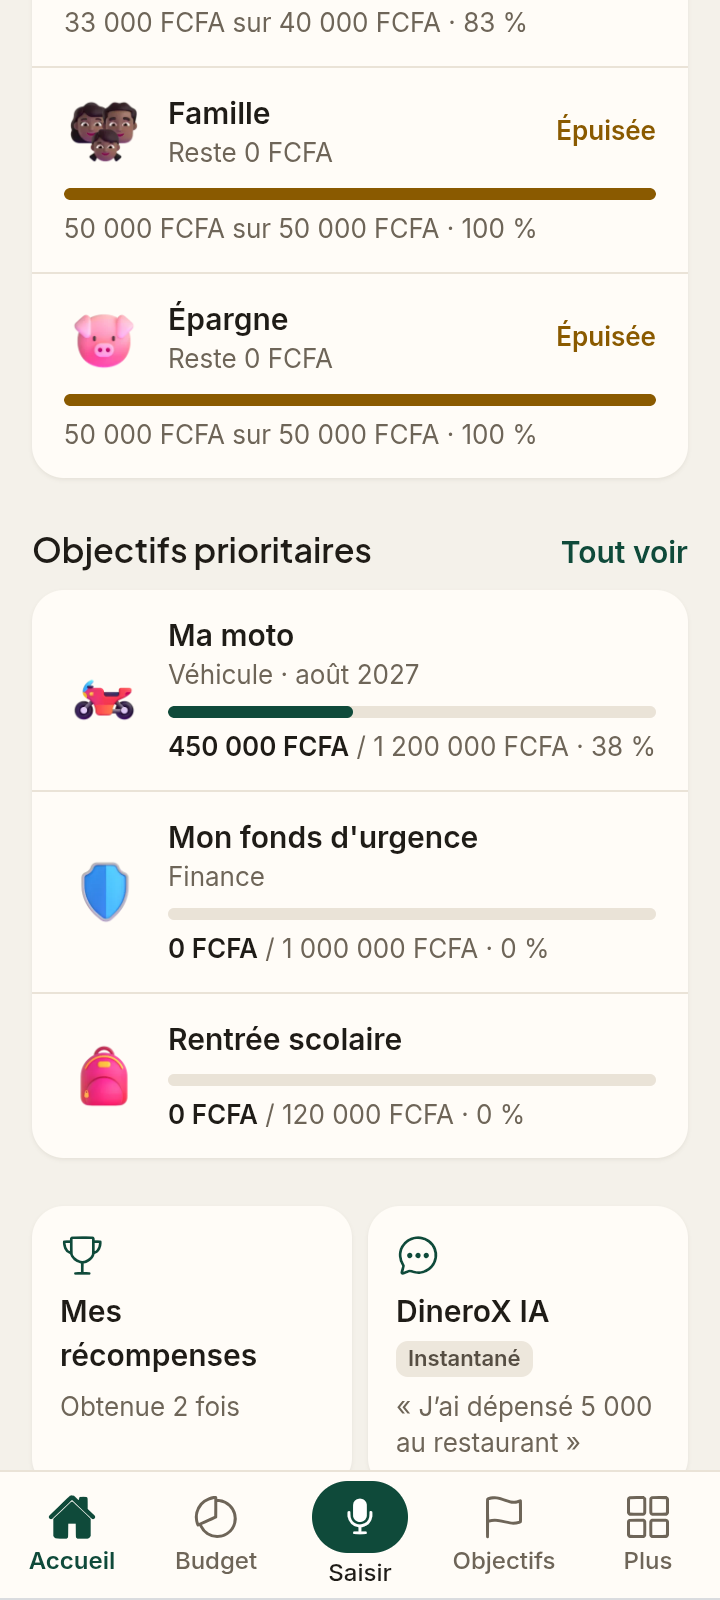
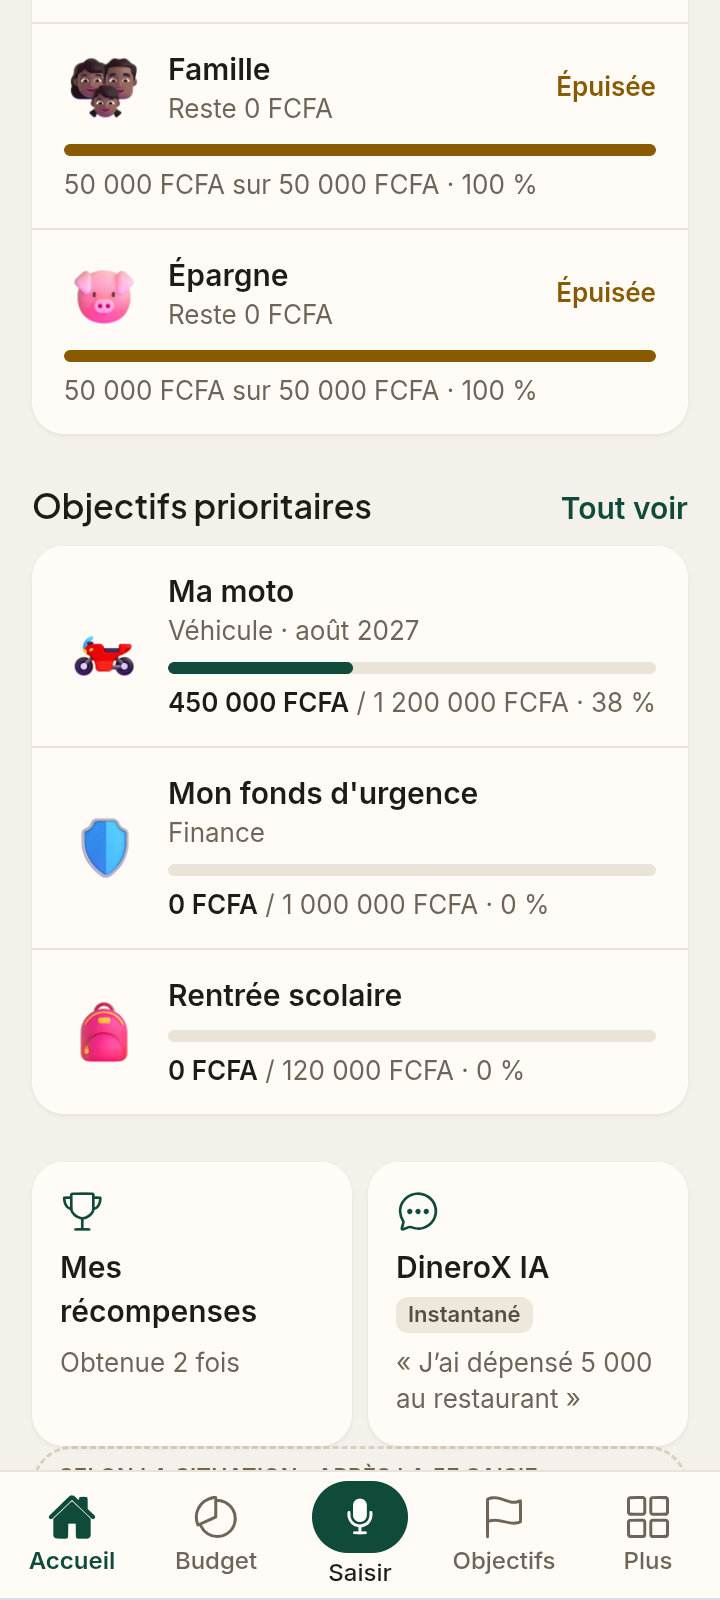
Design-pro : moto rouge, Canal+ en 📺, alertes sans emoji, cloche seule (maquettes et captures)

diff --git a/dinerox/docs/design-pro/directions/index.html b/dinerox/docs/design-pro/directions/index.html
@@ -332,8 +332,10 @@ function budget(d) {
 
 
 // ── Accueil COMPLET : contenu réel de la démonstration (export web, 2026-10-21), carte (b). ──
-// Textes : ceux de l'application, inchangés (les propositions de textes de l'étape 2 ne sont PAS
-// appliquées ici). Les cartes « selon la situation » sont entourées d'un pointillé de maquette.
+// Textes : ceux de l'application, inchangés, sauf deux changements approuvés par le fondateur
+// (2026-10-21) : plus d'emoji qui double une icône dans les alertes (🔴, ⚠…), et la cloche seule
+// dans l'en-tête (« Notifications » reste le libellé d'accessibilité). Les autres propositions de
+// l'étape 2 ne sont PAS appliquées. Les cartes « selon la situation » sont entourées d'un pointillé de maquette.
 function heroFull() {
   return `<div class="hc-b full">${PATTERN}<div class="body">
     <div class="t-caption">Reste par jour</div>
@@ -357,15 +359,15 @@ const bub3d = (slug, px = 34) => `<div class="bub" ${HALO}>${f3d(slug, px)}</div
 function homefull() {
   const tx = [
     ['Moto', 'Compte bancaire → Compte épargne · 20 octobre', '50 000 FCFA', null, 'tr'],
-    ['Canal+', 'Loisirs & divertissement · Orange Money · 18 octobre', '−10 000 FCFA', 'party-popper'],
+    ['Canal+', 'Loisirs & divertissement · Orange Money · 18 octobre', '−10 000 FCFA', 'television'],
     ['Restaurant', 'Alimentation & boissons · Cash · 15 octobre', '−51 000 FCFA', 'composees/plat_poisson_3d'],
     ['Taxi', 'Transport · Cash · 12 octobre', '−33 000 FCFA', 'taxi'],
     ['Maman', 'Famille · Orange Money · 10 octobre', '−50 000 FCFA', 'older-person-medium-dark'],
   ];
-  const insights = [['alert-circle-outline', 'var(--alert)', '🔴 Budget Maison dépassé de 40 000 FCFA.'], ['alert-circle-outline', 'var(--alert)', '🔴 Budget Alimentation & boissons dépassé de 13 000 FCFA.'], ['warning-outline', 'var(--warning)', '⚠ Budget Famille entièrement utilisé.']];
+  const insights = [['alert-circle-outline', 'var(--alert)', 'Budget Maison dépassé de 40 000 FCFA.'], ['alert-circle-outline', 'var(--alert)', 'Budget Alimentation & boissons dépassé de 13 000 FCFA.'], ['warning-outline', 'var(--warning)', 'Budget Famille entièrement utilisé.']];
   const month = [['arrow-down', 'Revenus', 'perçus ce mois', '450 000 FCFA', 'var(--positive)'], ['arrow-up', 'Dépenses', 'réglées ce mois', '326 000 FCFA'], ['wallet-outline', 'Épargne nette', 'ce mois-ci', '60 000 FCFA'], ['pie-chart-outline', 'Reste à répartir', '', '328 500 FCFA']];
   const env = [['house', 'Maison', 'Dépassé de 40 000 FCFA', 'Dépassée', 'over', '140 000 FCFA sur 100 000 FCFA · 140 %', 140], ['curry-rice', 'Alimentation & boissons', 'Dépassé de 13 000 FCFA', 'Dépassée', 'over', '93 000 FCFA sur 80 000 FCFA · 116 %', 116], ['taxi', 'Transport', 'Reste 7 000 FCFA', 'Dans les limites', 'ok', '33 000 FCFA sur 40 000 FCFA · 83 %', 83], ['composees/famille_3d_medium-dark', 'Famille', 'Reste 0 FCFA', 'Épuisée', 'full', '50 000 FCFA sur 50 000 FCFA · 100 %', 100], ['pig-face', 'Épargne', 'Reste 0 FCFA', 'Épuisée', 'full', '50 000 FCFA sur 50 000 FCFA · 100 %', 100]];
-  const goals = [['motorcycle', 'Ma moto', 'Véhicule · août 2027', '450 000 FCFA', '/ 1 200 000 FCFA · 38 %', 38], ['shield', 'Mon fonds d\'urgence', 'Finance', '0 FCFA', '/ 1 000 000 FCFA · 0 %', 0], ['backpack', 'Rentrée scolaire', '', '0 FCFA', '/ 120 000 FCFA · 0 %', 0]];
+  const goals = [['composees/moto_rouge_3d', 'Ma moto', 'Véhicule · août 2027', '450 000 FCFA', '/ 1 200 000 FCFA · 38 %', 38], ['shield', 'Mon fonds d\'urgence', 'Finance', '0 FCFA', '/ 1 000 000 FCFA · 0 %', 0], ['backpack', 'Rentrée scolaire', '', '0 FCFA', '/ 120 000 FCFA · 0 %', 0]];
   return `<div class="scroll">${topbar()}
     <div class="hello">Bonjour 👋</div>
     <div class="banner">${ic('flask-outline')}<div><div class="t-body" style="font-size:14px;line-height:20px">Mode démonstration : données fictives, séparées de vos données. Créez votre profil pour gérer votre propre argent.</div><div class="link" style="margin-top:8px">Créer mon profil</div></div></div>

diff --git a/dinerox/docs/design-pro/icones/sombre.html b/dinerox/docs/design-pro/icones/sombre.html
@@ -54,7 +54,7 @@ const LIST = [
   ['composees/famille_coeur_3d_medium-dark.webp', 40, 'Famille + cœur', 'Réserve famille et cérémonies'],
   ['fluent/train.webp', 37, 'Train', 'Train'],
   ['fluent/people-hugging.webp', 37, 'Accolade', 'Aide aux frères/sœurs'],
-  ['fluent/motorcycle.webp', 35, 'Moto', 'Moto-taxi, Acheter une moto'],
+  ['composees/moto_rouge_3d.webp', 38, 'Moto rouge', 'Moto-taxi, Acheter une moto, objectif moto'],
   ['fluent/tractor.webp', 30, 'Tracteur', 'Matériel agricole'],
   ['fluent/graduation-cap.webp', 26, 'Toque', 'Éducation & formation, Études'],
   ['composees/tontine_all_3d.webp', 25, 'Tontine', 'Tontine, compte Tontine, Tontine tournante'],

diff --git a/dinerox/docs/design-pro/directions.md b/dinerox/docs/design-pro/directions.md
@@ -104,8 +104,15 @@ tel qu'il est en démonstration, sans ces cartes.
 Captures : `directions/android/accueil-complet-{light,dark}-NN.png` (avec les cartes selon la
 situation) et `accueil-demo-{light,dark}-NN.png` (tel qu'en démonstration).
 
-Textes : ceux de l'application, **inchangés** (les propositions ci-dessous ne sont pas appliquées
-dans l'accueil complet : « Bonjour 👋 », 🔴/⚠ des alertes, montants avec « FCFA », dates en entier).
+Textes : ceux de l'application, inchangés, sauf deux changements **approuvés par le fondateur**
+(2026-10-21) : plus d'emoji qui double une icône dans les alertes (🔴, ⚠…) et, dans l'en-tête,
+la cloche seule (« Notifications » reste le libellé lu par le lecteur d'écran). Les autres
+propositions ci-dessous ne sont pas appliquées (« Bonjour 👋 », montants avec « FCFA », dates en entier).
+
+Icônes (fondateur, 2026-10-21) : Canal+ = 📺 Television (sous-catégorie « Abonnements streaming »,
+`sub_leisure_subscriptions`) ; toutes les motos = `composees/moto_rouge_3d` ; enveloppe Famille =
+`composees/famille_3d_medium-dark`. Dans les listes d'opérations, l'icône est celle de la
+SOUS-catégorie quand l'opération en a une, sinon celle de la catégorie.
 
 ## Textes montrés autrement dans les maquettes (NON appliqués — à ton accord à l'étape 4)
 

diff --git a/dinerox/docs/design-pro-icones-composees/README.md b/dinerox/docs/design-pro-icones-composees/README.md
@@ -13,5 +13,8 @@ Fichiers : PNG 512 × 512, fond transparent, à convertir en WebP 1x/2x/3x comme
 | `tontine_one_3d.png` | variante (une seule pièce), non retenue | — |
 | `garba_3d.png` | Snacks (Garba / repas de rue) | Fork and knife with plate + riz (Cooked rice, partie blanche seulement) + Fish recoloré en doré (poisson frit) |
 | `plat_poisson_3d.png` | Restaurant | Fork and knife with plate + Fish recoloré en doré |
+| `moto_rouge_3d.png` | Toutes les motos (moto-taxi, objectif « Acheter une moto », Moto, etc.) | Motorcycle recolorée en rouge franc (pare-brise et roues inchangés) — demande du fondateur |
 
 Planches de référence (choix du fondateur) : `planches/`.
+
+Autres décisions du fondateur (2026-10-21) : **Canal+ / abonnement TV** = 📺 Television (Fluent, sans modification) ; en-tête de l'accueil : la cloche seule, sans le mot « Notifications ».
